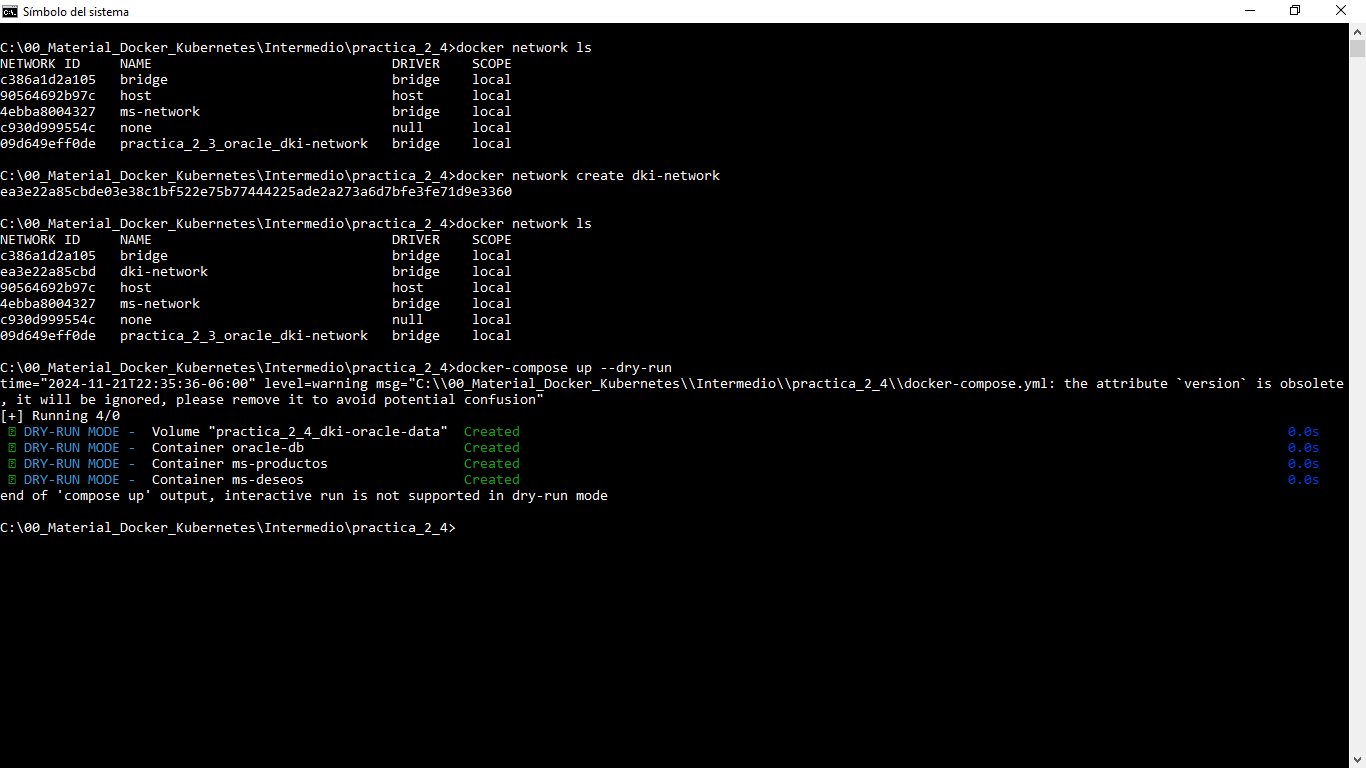
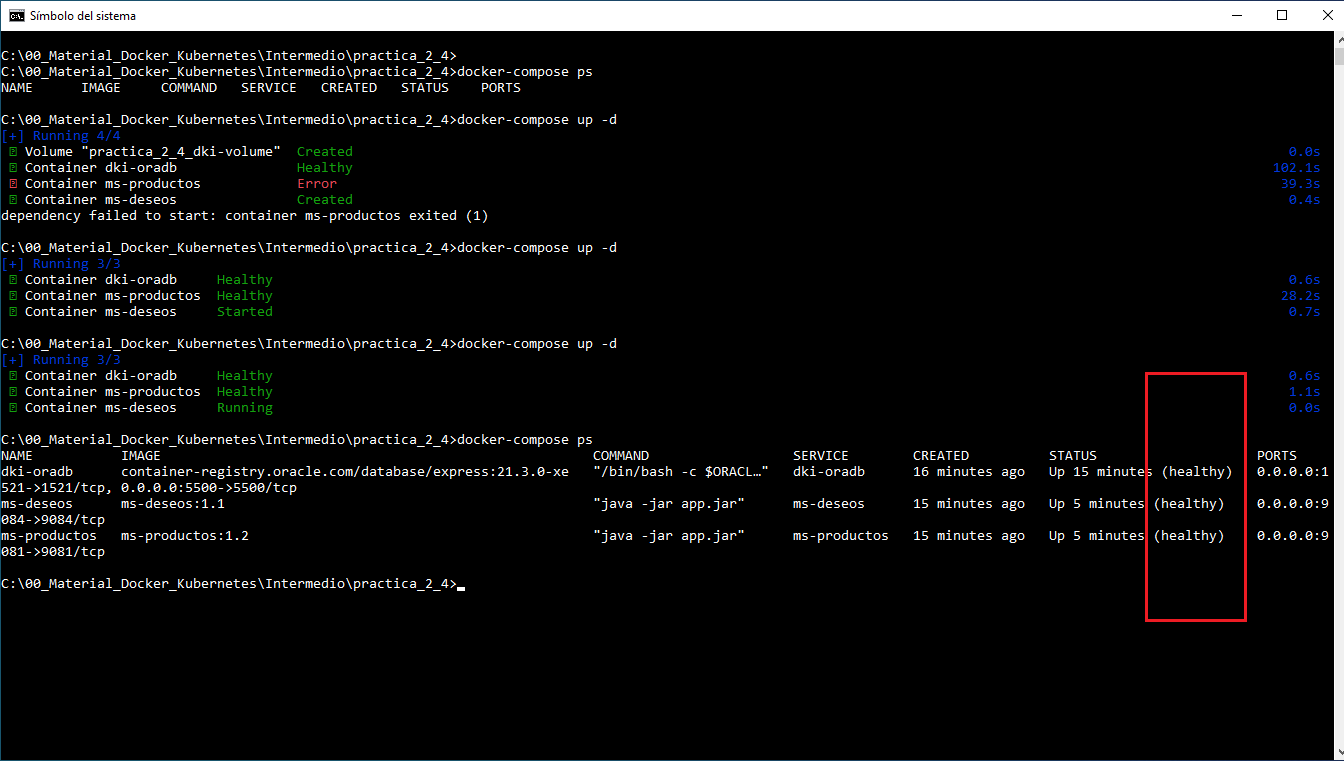
Práctica 2.4

diff --git a/Unidad2/README2_4.md b/Unidad2/README2_4.md
@@ -2,19 +2,19 @@
 
 ## Objetivo
 
-Al finalizar esta práctica, serás capaz de añadir los microservicios del caso de estudio al archivo `docker-compose.yml`, conectándolos a la base de datos Oracle y definiendo redes para la comunicación entre ellos
+Al finalizar esta práctica, serás capaz de añadir los microservicios del caso de estudio al archivo `docker-compose.yml`, conectándolos a la base de datos Oracle y definiendo redes para la comunicación entre ellos.
 
 <br/>
 
 ## Objetivo Visual
 
-![Microservicios Caso Estudio](../images/u2_4_1.png)
+![Microservicios Caso Estudio](../images/u2_4_7.png)
 
 <br/>
 
 ## Solicitudes HTTP
 
-![Consumos Caso Estudio](../images/u2_4_2.png)
+![Consumos Caso Estudio](../images/u2_4_8.png)
 
 <br/>
 
@@ -29,18 +29,23 @@ Al finalizar esta práctica, serás capaz de añadir los microservicios del caso
 
 ### 1. Verificar contenedores existentes
 
-- Verifica los contenedores que actualmente tienes configurados
+- Verifica los contenedores y recursos actualmente configurados
 
 ```cmd
 docker ps
 docker ps -a
+docker images
+docker volume ls
+docker network ls
 ```
 
-- Elimina los contenedores ms-productos, ms-deseos y oracle-db si es que existen.
+- Elimina los contenedores ms-productos, ms-deseos y dki-oradb si es que existen, pues usarás los mismos nombres.
 
 ```cmd
 docker rm -f ms-productos ms-deseos oracle-db
 ```
+
+<br/>
 
 ### 2. Crear la carpeta de trabajo para esta práctica
 
@@ -49,13 +54,11 @@ docker rm -f ms-productos ms-deseos oracle-db
 - Crea una nueva carpeta llamada practica_2_4 y copia el archivo `docker-compose.yml` desde la carpeta practica_2_3.  
 
 
-
 ```cmd
 mkdir practica_2_4
 cp practica_2_3\docker-compose.yml practica_2_4
 cd practica_2_4
 ```
-
 
 - **Nota**: También puedes ir al README2_3 y copiar el contenido del `docker-compose.yml` de la práctica_2_3.
 
@@ -64,7 +67,9 @@ cd practica_2_4
 
 ### 3. Crear la estructura para los scripts de Oracle
 
-- Crea una carpeta local llamada `scripts` en el mismo directorio donde está el archivo ```docker-compose.yml``` y coloca ahí el archivo ```init_schema.sql```:
+- Los scripts deben de ejecutarse después del **setup** de Oracle Database.
+
+- Crea una carpeta local llamada `scripts` en el mismo directorio donde está el archivo `docker-compose.yml` y coloca ahí el archivo `init_schema.sql`:
 
 ```cmd
 mkdir scripts
@@ -77,26 +82,29 @@ code init_schema.sql
 
 
 ### 4. Crear Scripts de Oracle para inicialización.
-Configura un usuario llamado `dkuser` con la contraseña `dkpassword` en la base de datos. Asegúrate de otorgarle los permisos necesarios para:
 
-- Establecer conexiones a la base de datos.
+- Configura un usuario llamado `dkuser` con la contraseña `dkpassword` en la base de datos. Asegúrate de otorgarle los permisos necesarios para:
 
-- Crear tablas dentro de su esquema.
+  - Establecer conexiones a la base de datos.
 
-- Insertar y modificar registros en las tablas.
+  - Crear tablas dentro de su esquema.
 
-- Utilizar espacio en el tablespace asignado.
+  - Insertar y modificar registros en las tablas.
 
+  - Utilizar espacio en el tablespace asignado.
+
+- Puedes usar el siguiente contenido en SQL para realizar la configuración:
 
 ```sql
--- Cambiamos de sesión
+
+-- Cambiamos de sesión a la PDB
 ALTER SESSION SET CONTAINER = XEPDB1;
 
--- Crear un esquema y asignar permisos
+-- Crear el usuario y asignar permisos
 CREATE USER dkuser IDENTIFIED BY dkpassword;
 GRANT CONNECT, RESOURCE TO dkuser;
 
--- Espacio ilimitado en el tablespace users.
+-- Establecer el espacio ilimitado en el tablespace users.
 ALTER USER dkuser QUOTA UNLIMITED ON users;
 
 ```
@@ -104,63 +112,216 @@ ALTER USER dkuser QUOTA UNLIMITED ON users;
 <br/>
 
 
-### 5. Actualizar el archivo docker-compose.yml para incluir los microservicios:
+### 5. Verificar y Crear la Red Externa dki-network
+
+Antes de ejecutar tu configuración con Docker Compose, asegúrate de que la red externa dki-network esté creada. Sigue estos pasos:
+
+- Verifica si la red ya existe: Ejecuta el siguiente comando para listar las redes existentes en Docker:
+
+```cmd
+docker network ls
+
+```
+
+- Crea la red si no existe: Si no encuentras dki-network en la lista, puedes crearla con el siguiente comando:
+
+
+```cmd
+docker network create dki-network
+```
+ 
+**Nota**: Esto creará una red de tipo bridge (predeterminada) para ser utilizada como red externa.
+
+<br/>
+
+### 6. Configurar y Verificar los Microservicios
+
+1. Verifica las propiedades de configuración de los microservicios:
+
+    - Asegúrate de que los archivos `application.properties` contengan las configuraciones necesarias para cada microservicio.
+
+    - Microservicios:
+
+      - **ms-productos**: Revisa su archivo `application.properties`.
+
+        ```text
+        spring.application.name=ms-productos
+        server.port=9081
+
+        # Configuracion de la base de datos
+        spring.datasource.url=jdbc:oracle:thin:@dki-oradb:1521/XEPDB1
+        spring.datasource.username=dkuser
+        spring.datasource.password=dkpassword
+        spring.datasource.driver-class-name=oracle.jdbc.OracleDriver
+
+        # Configuracion de JPA e Hibernate
+        spring.jpa.hibernate.ddl-auto=update
+        spring.jpa.show-sql=true
+        spring.jpa.properties.hibernate.dialect=org.hibernate.dialect.OracleDialect
+        ```
+
+
+    - **ms-deseos**: Revisa su archivo `application.properties`.
+
+        ```text
+        spring.application.name=ms-deseos
+        server.port=9084
+        ```
+
+
+<br/>
+
+2. Genera los archivos JAR:
+
+    - Si los JAR generados no corresponden con las versiones esperadas, compila los proyectos nuevamente.
+
+    - Comando para compilar:
+
+      ```cmd
+      .\mvnw clean package --Dmaven.test.skip=true
+      ```
+
+    - Ubicación del JAR generado:
+
+      - Para **ms-productos**: target/ms-productos-<version>.jar
+
+      - Para **ms-deseos**: target/ms-deseos-<version>.jar
+
+      - **Nota**: Haste este momento la versión podría ser `0.0.1-SNAPSHOT.jar`
+
+
+<br/>
+
+3. Verifica los **Dockerfiles**:
+
+    - Asegúrate de que ambos Dockerfile incluyen la etapa para instalar curl en las imágenes de los microservicios.
+
+    - Microservicios:
+
+      - **ms-productos**: Revisa el contenido del Dockerfile.
+
+      ```dockerfile
+        FROM openjdk:21-jdk-slim
+        WORKDIR /app
+        COPY target/ms-productos-0.0.1-SNAPSHOT.jar app.jar
+        EXPOSE 9081
+        RUN apt-get update && apt-get install -y curl
+        ENTRYPOINT ["java", "-jar", "app.jar"]
+      ```
+
+      - **ms-deseos**: Revisa el contenido del Dockerfile.
+
+      ```dockerfile
+        FROM openjdk:21-jdk-slim
+        WORKDIR /app
+        COPY target/ms-deseos-0.0.1-SNAPSHOT.jar app.jar
+        EXPOSE 9084
+        RUN apt-get update && apt-get install -y curl
+        ENTRYPOINT ["java", "-jar", "app.jar"]
+      ```
+
+<br/>
+
+4. Genera las imágenes Docker:
+
+    - Crea las imágenes para cada microservicio utilizando sus respectivos Dockerfile.
+
+    - Comandos para generar las imágenes:
+
+      - Para ms-productos:
+
+        ```cmd
+        docker build -t ms-productos:<version> .
+        ```
+
+      - Para ms-deseos:
+        ```cmd
+        docker build -t ms-deseos:<version> .
+        ```
+
+      - Reemplaza <version> con el número de versión correspondiente
+
+<br/>
+
+5. Confirma las versiones en el archivo `docker-compose.yml`:
+
+  - Asegúrate de que las versiones de las imágenes generadas sean las mismas especificadas en el archivo `docker-compose.yml`. Si no coinciden, actualiza el archivo `docker-compose.yml` con las versiones correctas.
+
+<br/>
+
+### 7. Actualizar el archivo docker-compose.yml para incluir los microservicios:
 
 - Añade los servicios `ms-productos` y `ms-deseos` al archivo. Asegúrate de que cada servicio esté conectado a la red `dki-network` y que utilicen variables de entorno para la conexión con la base de datos Oracle.
 
 ```yaml
-version: "3.9"
-
 services:
-  dki-oracle-db:
-    container_name: oracle-db   
-    image: container-registry.oracle.com/database/express:21.3.0-xe   
+  dki-oradb:
+    container_name: dki-oradb
+    image: container-registry.oracle.com/database/express:21.3.0-xe
     environment:
-      ORACLE_PWD: Netec_123 
+      ORACLE_PWD: Netec_123
       ORACLE_SID: XE
       ORACLE_PDB: XEPDB1
       ORACLE_CHARACTERSET: AL32UTF8
     ports:
-      - "1521:1521"  
-      - "5500:5500"   
+      - "1521:1521"
+      - "5500:5500"
     volumes:
-      - dki-oracle-data:/opt/oracle/oradata   
-      - ./scripts:/opt/oracle/scripts/startup  # Montar el directorio de scripts
+      - dki-volume:/opt/oracle/oradata
+      - ./scripts:/opt/oracle/scripts/startup
     networks:
-      - dki-network   
-volumes:
-  dki-oracle-data:   
-networks:
-  dki-network:   
-     driver: bridge
+      - dki-network
+    healthcheck:
+      test: ["CMD", "sh", "-c", "echo 'SELECT 1 FROM DUAL;' | sqlplus system/Netec_123@localhost:1521/XE"]
+      interval: 30s
+      timeout: 10s
+      retries: 5
+      start_period: 60s
 
   ms-productos:
-    image: ms-productos:1.0
+    image: ms-productos:1.2  
     container_name: ms-productos
     ports:
       - "9081:9081"
     environment:
-      USER_DEMO : Netec
+      USER_DEMO: Netec
     networks:
       - dki-network
     depends_on:
-      - oracle-db
+      dki-oradb:
+        condition: service_healthy
+    healthcheck:
+      test: ["CMD", "curl", "-f", "http://127.0.0.1:9081/productos"]
+      interval: 30s
+      timeout: 15s
+      retries: 5
+      start_period: 30s
 
   ms-deseos:
-    image: ms-deseos:1.0
+    image: ms-deseos:1.1
     container_name: ms-deseos
     ports:
       - "9084:9084"
     environment:
-      MS_PRODUCTOS_URL: http://ms-productos:9081/api/productos
+      MS_PRODUCTOS_URL: http://ms-productos:9081/productos
     networks:
       - dki-network
     depends_on:
-      - ms-productos
+      ms-productos:
+        condition: service_healthy
+    healthcheck:
+      test: ["CMD", "curl", "-f", "http://127.0.0.1:9084/deseos"]
+      interval: 30s
+      timeout: 15s
+      retries: 5
+      start_period: 30s
+
+volumes:
+  dki-volume:
 
 networks:
   dki-network:
-    driver: bridge
+    external: true
 
 ```
 
@@ -168,7 +329,7 @@ networks:
 
 <br/>
 
-### 6. Levantar los contenedores con Docker Compose
+### 8. Levantar los contenedores con Docker Compose
 
 - Ejecuta el siguiente comando para verificar tu configuración
 
@@ -183,7 +344,7 @@ docker-compose up -d
 ```
 <br/>
 
-### 7. Verificar que los contenedores están funcionando correctamente:
+### 9. Verificar que los contenedores están funcionando correctamente:
 
 - Usa el comando `docker ps` para listar los contenedores en ejecución.
 
@@ -198,7 +359,7 @@ docker network ls
 
 <br/>
 
-### 8. Probar la conexión entre los servicios:
+### 10. Probar la conexión entre los servicios:
 
 - Usa una herramienta como Postman o curl para enviar solicitudes a `ms-productos` en el puerto 9081 y a `ms-deseos` en el puerto 9084.
 
@@ -219,7 +380,7 @@ curl http://localhost:9084/api/deseos
 - Recuerda que la primera vez que usas los microservicios no se tiene información.
 
 
-### 9. Detener los contenedores:
+### 11. Detener los contenedores:
 
 - Cuando termines, detén y elimina los contenedores ejecutando:
 
@@ -229,6 +390,7 @@ docker-compose down --volumes
 
 <br/>
 <br/>
+
 
 ## Resultado Esperado:
 
